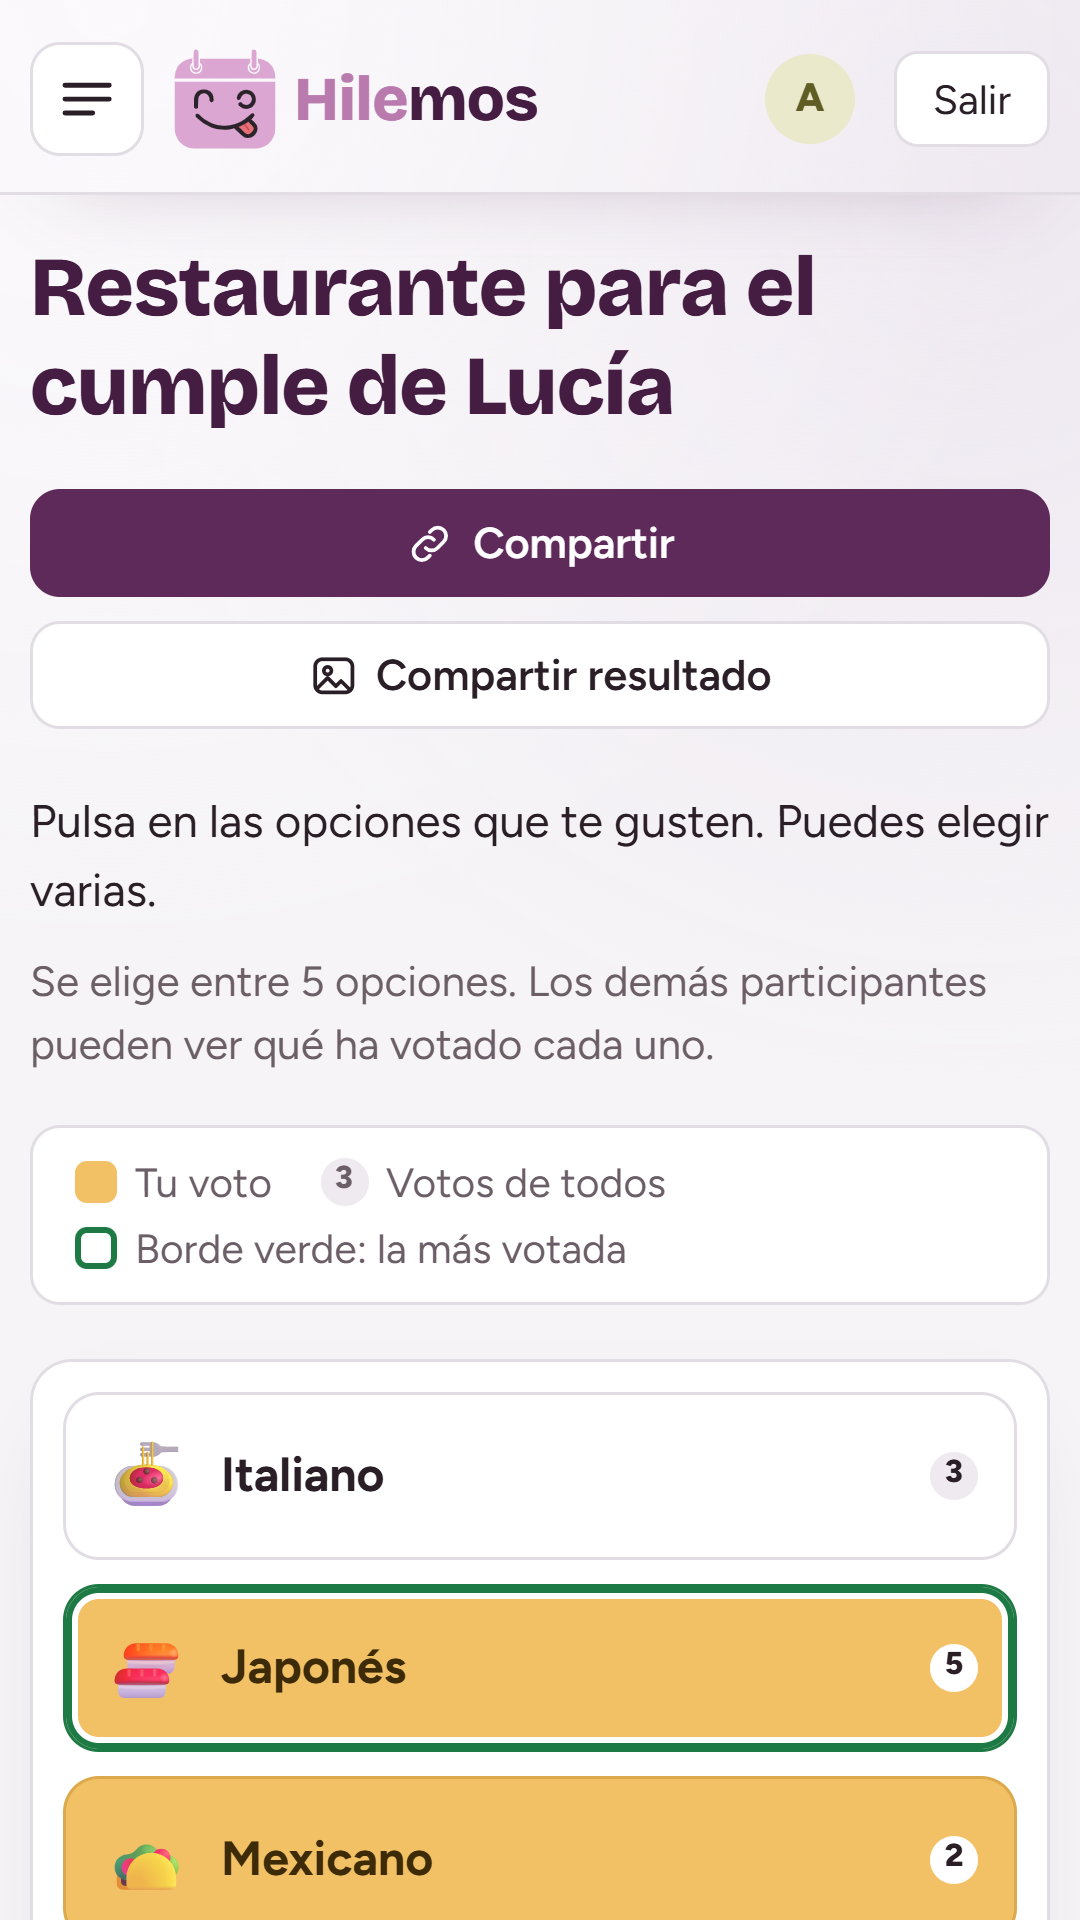
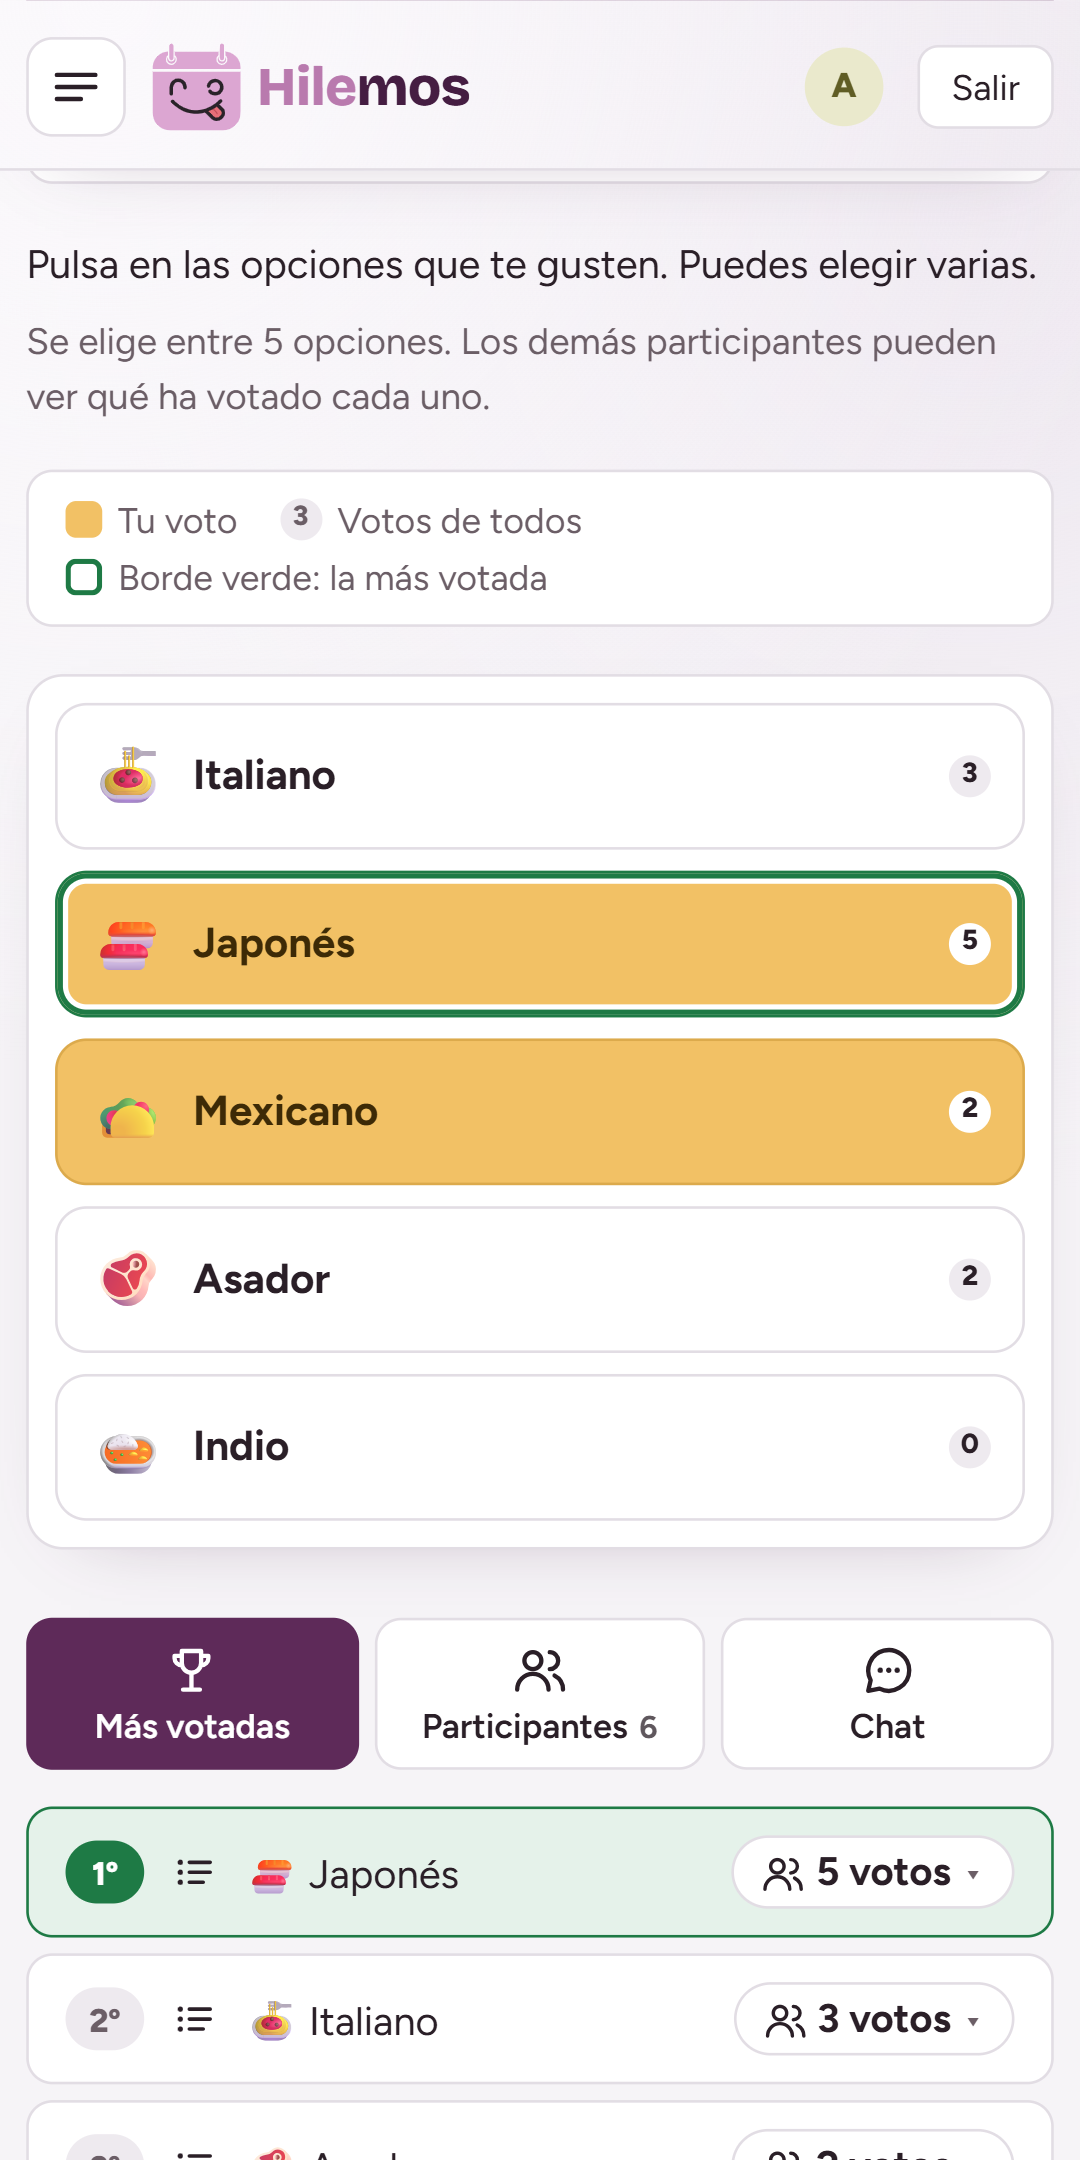
Capturas de la ficha de Play con pantalla más alta (412×824, 1080×2160): se ve cada pantalla entera
Con 360×640 el contenido salía muy ampliado y cortado. Ahora el calendario, la lista de opciones, el chat y los tipos de
votación se ven completos.

diff --git a/docs/ficha-google-play/textos.md b/docs/ficha-google-play/textos.md
@@ -1,7 +1,7 @@
 # Ficha de Google Play (español de España)
 
 Lo que se copia en Play Console → Crecimiento → Presencia en Google Play → Ficha principal. Las imágenes están en
-esta misma carpeta. Las capturas y la imagen destacada se rehacen con datos de ejemplo en el modo demo, sin el banner
+esta misma carpeta. Las capturas (1080 × 1920 en proporción 2:1, es decir 1080 × 2160, con pantalla de 412 × 824) y la imagen destacada se rehacen con datos de ejemplo en el modo demo, sin el banner
 de la demo: desde la carpeta de Playwright de la skill `probar-en-navegador`, con el servidor de desarrollo en el
 puerto 5199, `node ficha.mjs <carpeta> <ruta de icono-512.png>`.
 
@@ -51,7 +51,7 @@ Sin anuncios. Votar, ver el resultado y el chat son gratis. También funciona de
 | --- | --- | --- |
 | Icono de la aplicación | `icono-512.png` | 512 × 512, PNG de 32 bits |
 | Gráfico de funciones (imagen destacada) | `imagen-destacada-1024x500.png` | 1024 × 500 |
-| Capturas de pantalla del teléfono | `1-votar.png` … `6-crear.png`, en ese orden | 1080 × 1920 (9:16) |
+| Capturas de pantalla del teléfono | `1-votar.png` … `6-crear.png`, en ese orden | 1080 × 2160 (2:1, el máximo que admite Play) |
 
 No hacen falta capturas de tableta ni vídeo.
 

diff --git a/.claude/skills/probar-en-navegador/SKILL.md b/.claude/skills/probar-en-navegador/SKILL.md
@@ -16,7 +16,7 @@ Playwright. Hay cuatro herramientas en `scripts/`. Elige según lo que hayas cam
 | Algo grande o «que no se rompa nada» | Todo: capturas, estados y `recorrido.mjs` |
 | «Hilemos en tu móvil» (instalar la app) | `instalar.mjs <carpeta>`: simula un iPhone, un Android y un ordenador |
 | Solicitudes de entrada (votaciones con aprobación) | `solicitudes.mjs <carpeta>`: mete 100 solicitudes en el modo demo y prueba plegar, «Ver las 100», buscar y aceptar o rechazar en lote |
-| Ficha de Google Play | `ficha.mjs <carpeta> <icono-512.png>`: las 6 capturas del móvil (1080×1920) con datos de ejemplo y la imagen destacada (1024×500). Resultado y textos en `docs/ficha-google-play/` |
+| Ficha de Google Play | `ficha.mjs <carpeta> <icono-512.png>`: las 6 capturas del móvil (1080×2160, pantalla de 412×824) con datos de ejemplo y la imagen destacada (1024×500). Resultado y textos en `docs/ficha-google-play/` |
 
 ## Preparar (una vez por sesión)
 
